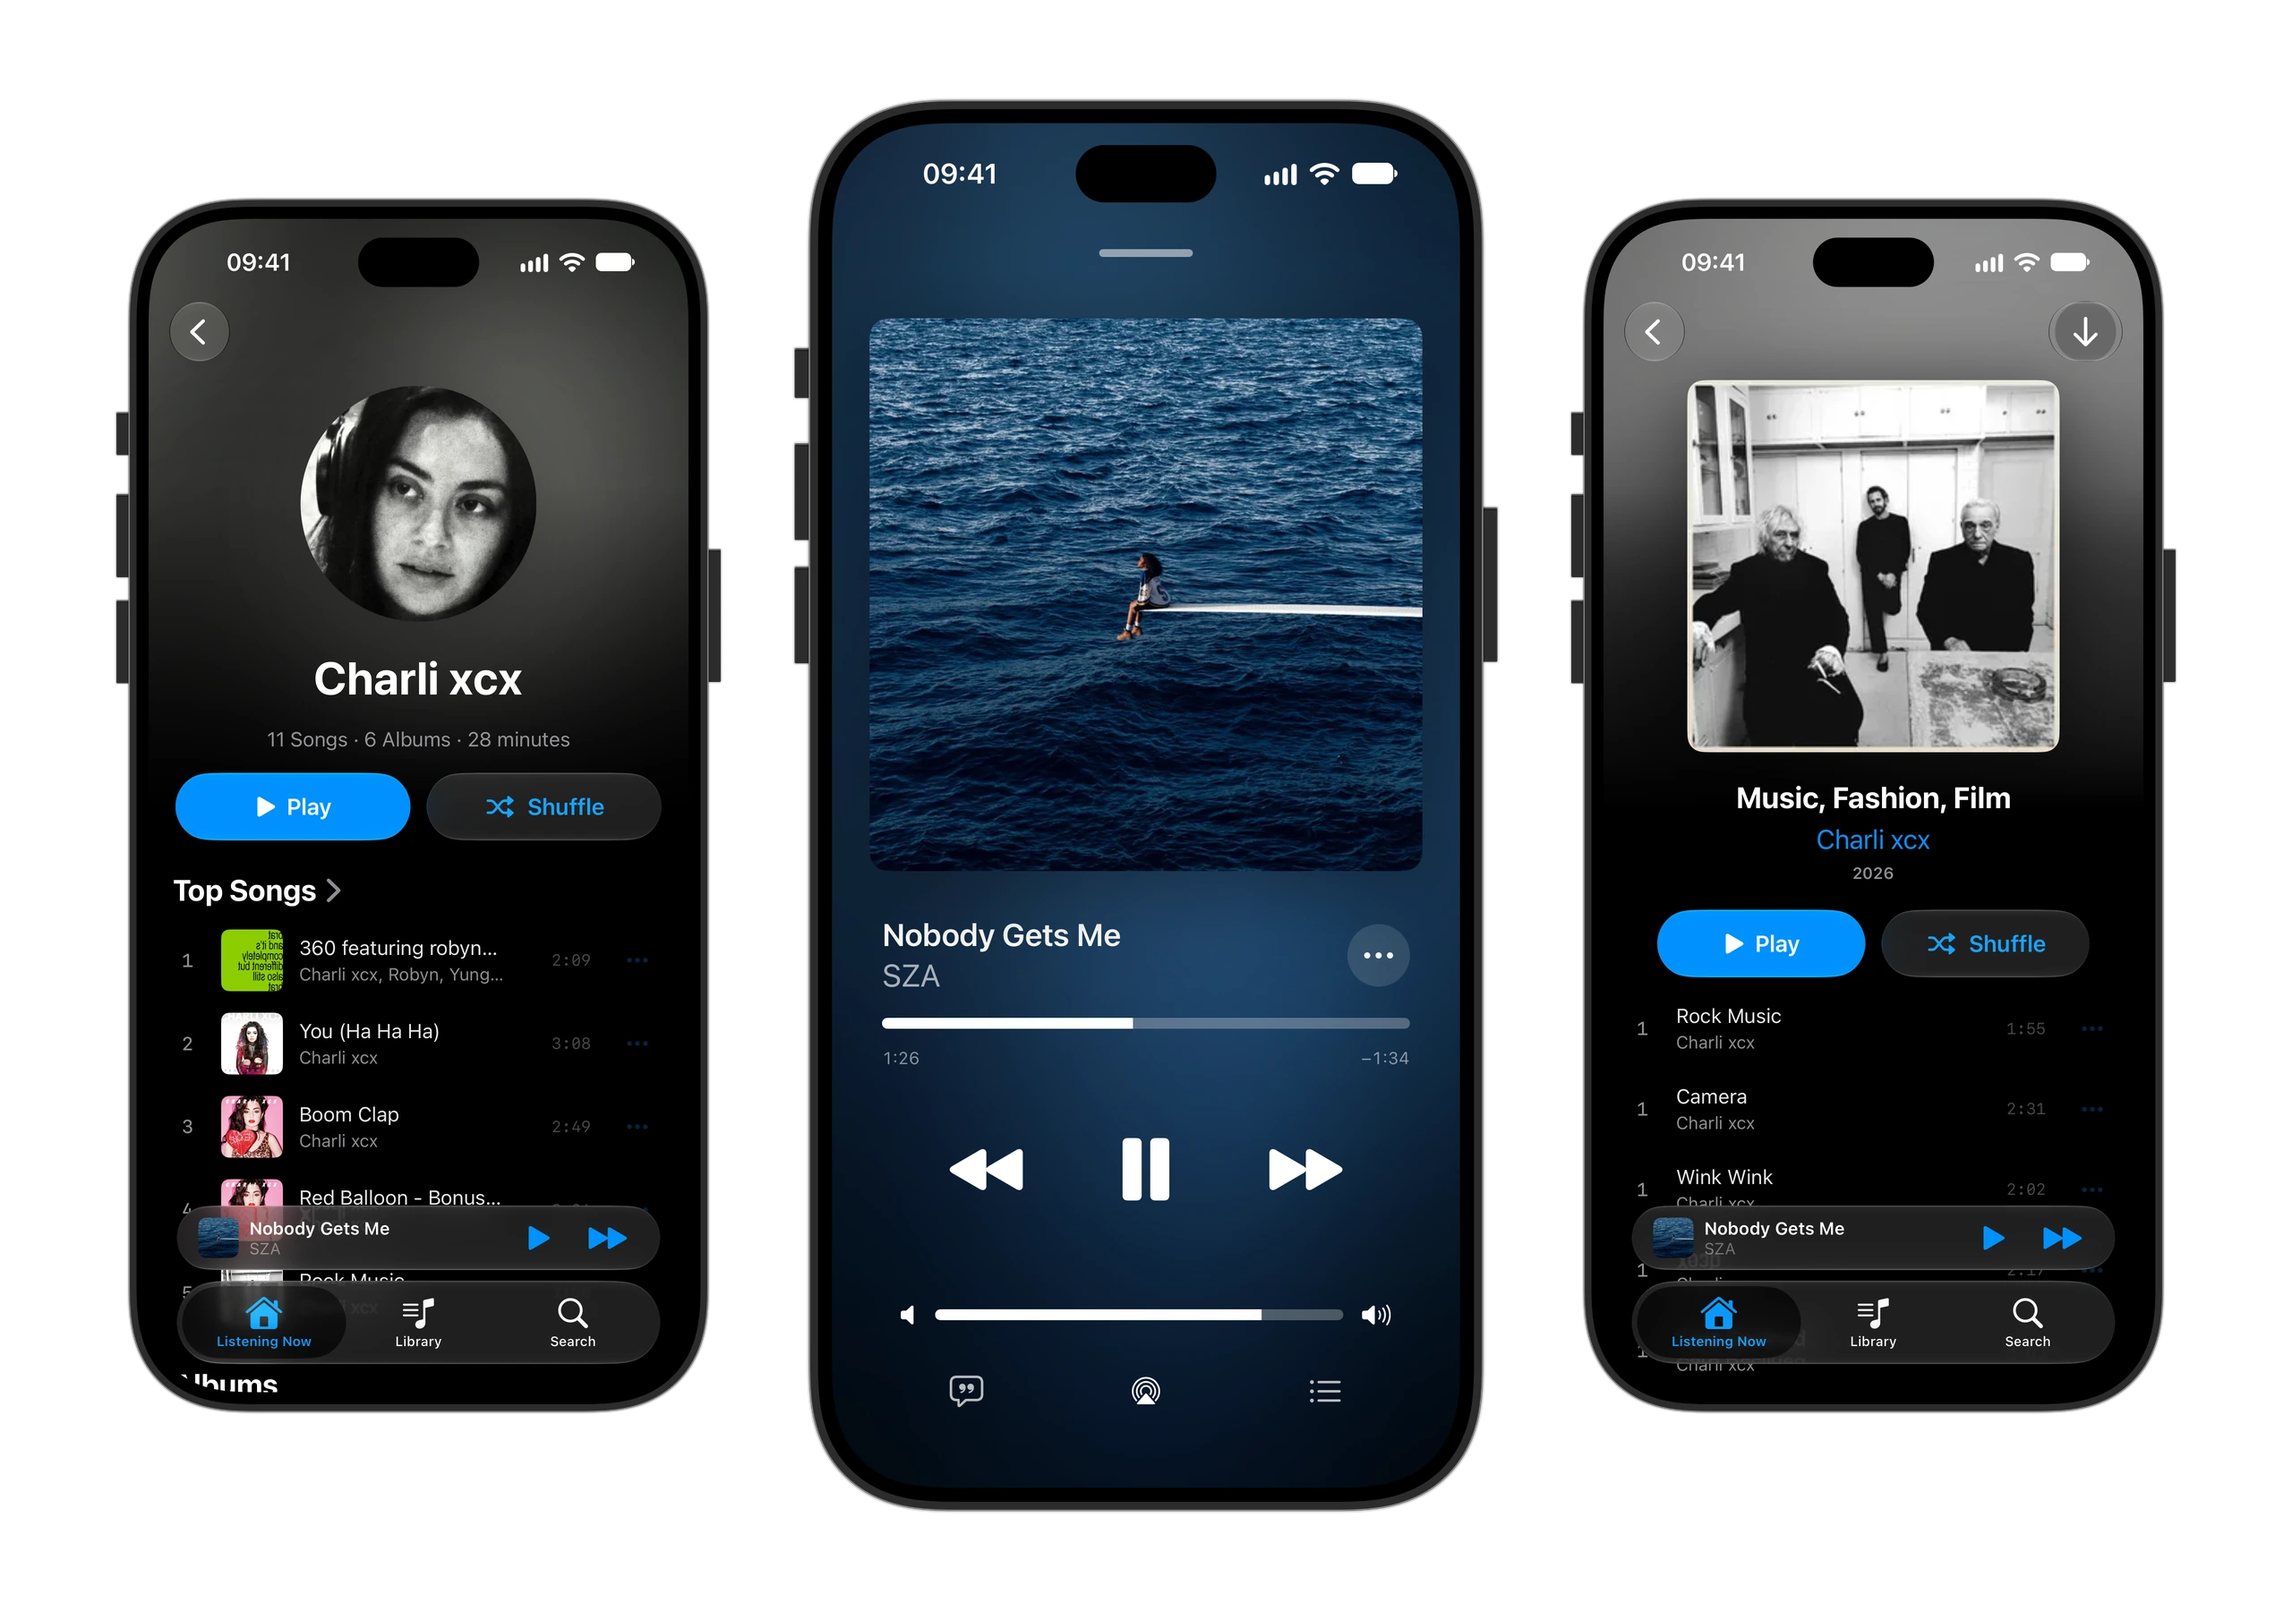
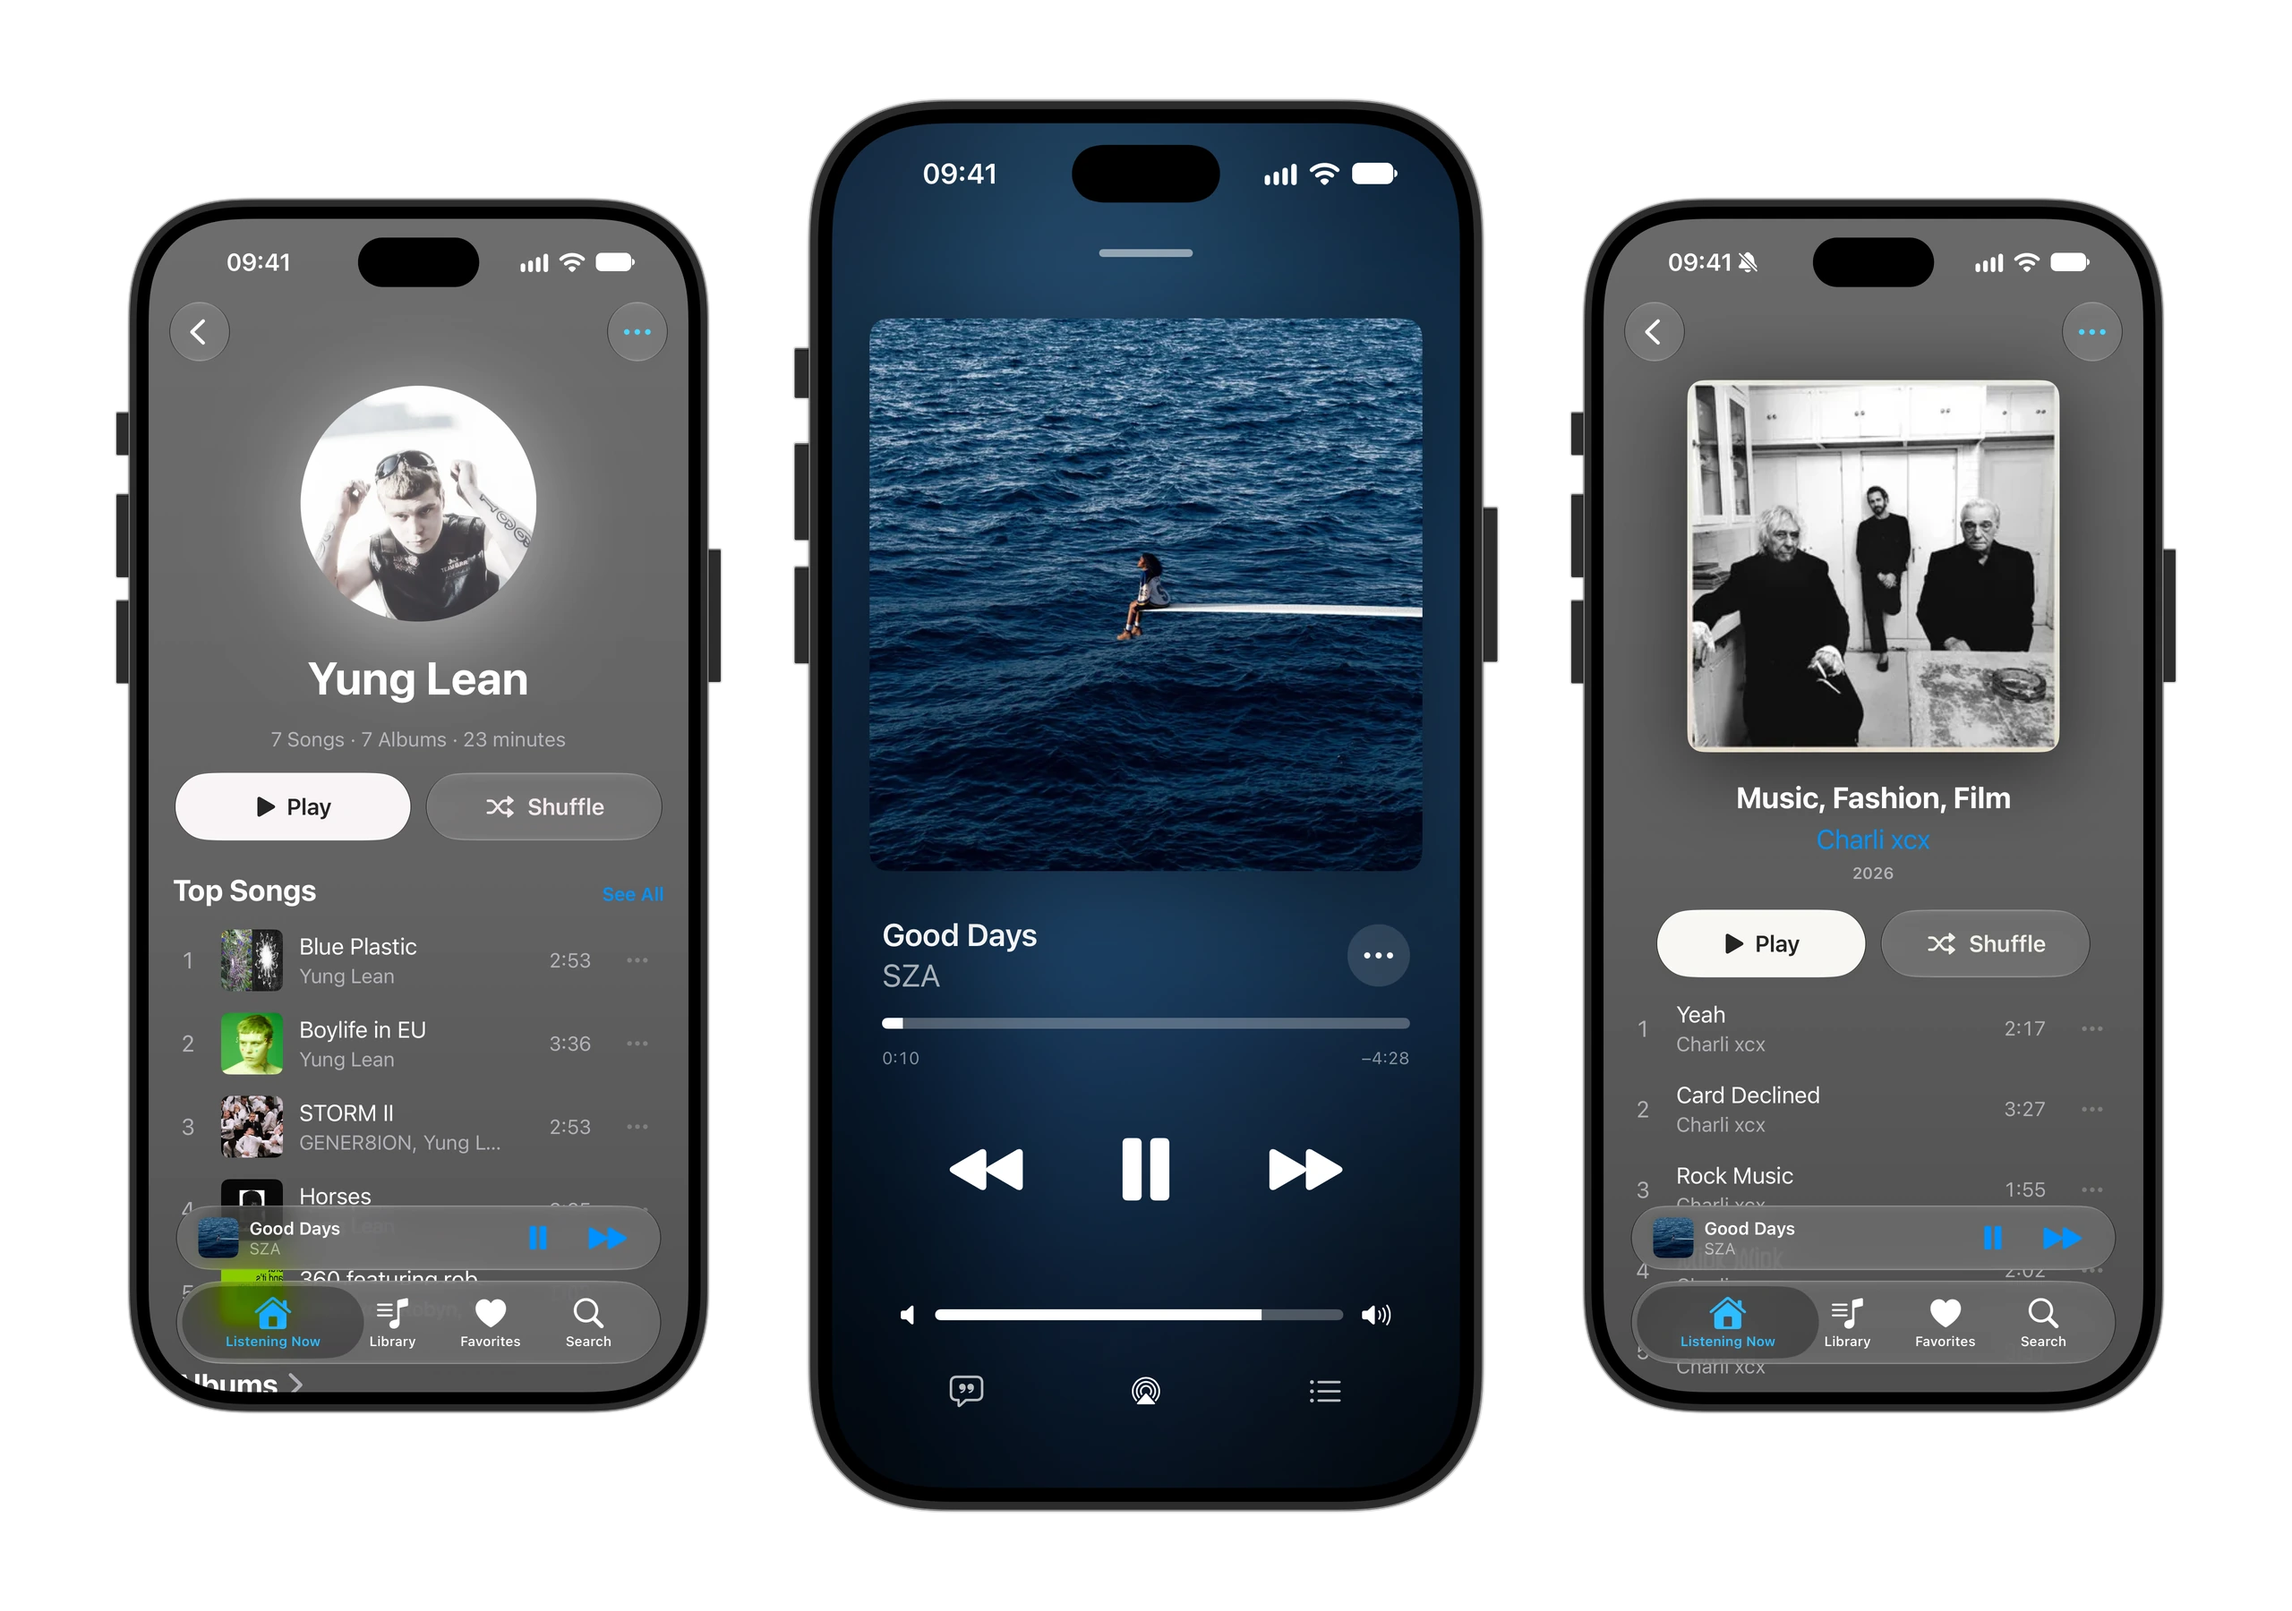
Album colors, Tailscale http fix and track numbers
- Album, artist, playlist and mix pages take on the color of the cover, using the server's album color when it has one. The Play button and links use a light version of it.
- Fixed http not working with Tailscale names (.ts.net) and other domains: NSAllowsLocalNetworking made iOS ignore NSAllowsArbitraryLoads.
- Albums without track number tags are numbered by position instead of showing 1 for every track.
- New README image.

diff --git a/SwingMusic/Views/Components/AdaptiveDetailBackground.swift b/SwingMusic/Views/Components/AdaptiveDetailBackground.swift
@@ -57,25 +57,162 @@ struct AdaptiveDetailBackground: View {
     }
 }
 
-// The detail screens' blurred artwork background, scrolling with the header so the track list
-// below it sits on the plain background. Pulling down past the top leaves it anchored in place.
+// The colors a detail screen takes from its artwork, like Apple Music's album pages: a deep version of
+// the cover's main color for the whole page and a pale one for the Play button.
+struct ArtworkPalette: Equatable {
+    let background: Color
+    let accent: Color
+
+    private static var cache: [String: ArtworkPalette] = [:]
+
+    // The server's color (as the web client uses it) when it has some color in it, otherwise the
+    // most prominent hue of the cover.
+    @MainActor
+    static func make(image: UIImage?, serverColor: String?) -> ArtworkPalette? {
+        let key = "\(serverColor ?? "")|\(image.map { "\(ObjectIdentifier($0).hashValue)" } ?? "")"
+        if let hit = cache[key] { return hit }
+        var hsb: (h: CGFloat, s: CGFloat, b: CGFloat)?
+        if let server = serverColor.flatMap(parse), server.s >= 0.18, server.b >= 0.15 {
+            hsb = server
+        } else if let image {
+            hsb = dominantHue(of: image)
+        }
+        guard let hsb else { return nil }
+        let palette = from(hsb)
+        cache[key] = palette
+        return palette
+    }
+
+    private static func from(_ c: (h: CGFloat, s: CGFloat, b: CGFloat)) -> ArtworkPalette {
+        let colorful = c.s >= 0.12
+        // Keep the color's own character: vivid covers stay vivid, darker ones stay darker.
+        let sat = colorful ? 0.38 + min(c.s, 1) * 0.42 : c.s * 0.5
+        // Yellows and oranges turn muddy when dark, so they get more light.
+        let warmth = colorful && c.h > 0.07 && c.h < 0.2 ? 0.1 : 0
+        let bright = 0.22 + min(max(c.b, 0), 1) * 0.22 + warmth
+        return ArtworkPalette(
+            background: Color(hue: c.h, saturation: sat, brightness: bright),
+            accent: Color(hue: c.h, saturation: colorful ? min(0.28 + c.s * 0.2, 0.45) : 0.04, brightness: 0.95)
+        )
+    }
+
+    // "rgb(65, 171, 66)" or "#41ab42".
+    private static func parse(_ string: String) -> (h: CGFloat, s: CGFloat, b: CGFloat)? {
+        var r: CGFloat = 0, g: CGFloat = 0, b: CGFloat = 0
+        let nums = string.split(whereSeparator: { !"0123456789.".contains($0) }).compactMap { Double($0) }
+        if string.lowercased().hasPrefix("rgb"), nums.count >= 3 {
+            r = nums[0] / 255; g = nums[1] / 255; b = nums[2] / 255
+        } else {
+            let hex = string.trimmingCharacters(in: CharacterSet(charactersIn: "# "))
+            guard hex.count == 6, let v = UInt32(hex, radix: 16) else { return nil }
+            r = CGFloat((v >> 16) & 0xFF) / 255; g = CGFloat((v >> 8) & 0xFF) / 255; b = CGFloat(v & 0xFF) / 255
+        }
+        return hsb(r, g, b)
+    }
+
+    private static func hsb(_ r: CGFloat, _ g: CGFloat, _ b: CGFloat) -> (h: CGFloat, s: CGFloat, b: CGFloat) {
+        var h: CGFloat = 0, s: CGFloat = 0, v: CGFloat = 0, a: CGFloat = 0
+        UIColor(red: r, green: g, blue: b, alpha: 1).getHue(&h, saturation: &s, brightness: &v, alpha: &a)
+        return (h, s, v)
+    }
+
+    // The hue that covers the most of the cover, weighted by how colorful each pixel is, then the
+    // average color of just those pixels. Averaging the whole cover instead turns most into brown.
+    private static func dominantHue(of image: UIImage) -> (h: CGFloat, s: CGFloat, b: CGFloat)? {
+        guard let cg = image.cgImage else { return nil }
+        let side = 40
+        var px = [UInt8](repeating: 0, count: side * side * 4)
+        guard let ctx = CGContext(data: &px, width: side, height: side, bitsPerComponent: 8, bytesPerRow: side * 4,
+                                  space: CGColorSpace(name: CGColorSpace.sRGB)!,
+                                  bitmapInfo: CGImageAlphaInfo.premultipliedLast.rawValue) else { return nil }
+        ctx.draw(cg, in: CGRect(x: 0, y: 0, width: side, height: side))
+
+        let buckets = 18
+        var score = [Double](repeating: 0, count: buckets)
+        var sums = [(r: Double, g: Double, b: Double, w: Double)](repeating: (0, 0, 0, 0), count: buckets)
+        var gray = (r: 0.0, g: 0.0, b: 0.0, w: 0.0)
+        for i in stride(from: 0, to: px.count, by: 4) {
+            let r = CGFloat(px[i]) / 255, g = CGFloat(px[i + 1]) / 255, b = CGFloat(px[i + 2]) / 255
+            let c = hsb(r, g, b)
+            guard c.b > 0.12 else { continue }
+            if c.s < 0.18 {
+                gray.r += r; gray.g += g; gray.b += b; gray.w += 1
+                continue
+            }
+            let k = min(Int(c.h * CGFloat(buckets)), buckets - 1)
+            let w = Double(c.s * (0.4 + c.b))
+            score[k] += w
+            sums[k].r += Double(r) * w; sums[k].g += Double(g) * w; sums[k].b += Double(b) * w; sums[k].w += w
+        }
+        // Neighboring hues belong together (a red can straddle two buckets).
+        var best = -1, bestScore = 0.0
+        for k in 0..<buckets {
+            let total = score[k] + 0.5 * (score[(k + buckets - 1) % buckets] + score[(k + 1) % buckets])
+            if total > bestScore { bestScore = total; best = k }
+        }
+        let pixels = Double(side * side)
+        // A hue must cover a fair part of the cover; a bit of skin on a black-and-white photo stays gray.
+        if best >= 0, bestScore > pixels * 0.08, sums[best].w > 0 {
+            let w = sums[best].w
+            return hsb(CGFloat(sums[best].r / w), CGFloat(sums[best].g / w), CGFloat(sums[best].b / w))
+        }
+        guard gray.w > 0 else { return (0, 0, 0.3) }
+        return hsb(CGFloat(gray.r / gray.w), CGFloat(gray.g / gray.w), CGFloat(gray.b / gray.w))
+    }
+}
+
+private struct DetailTintKey: EnvironmentKey { static let defaultValue: Color? = nil }
+
+extension EnvironmentValues {
+    // The pale artwork color for a detail screen's Play button; nil uses the app's accent.
+    var detailTint: Color? {
+        get { self[DetailTintKey.self] }
+        set { self[DetailTintKey.self] = newValue }
+    }
+}
+
+// The detail screens' background: the whole page in the artwork's color once the cover has loaded,
+// with the blurred cover fading out behind the header, as on Apple Music's album pages.
 private struct DetailBackground: ViewModifier {
     let image: UIImage?
+    var serverColor: String?
     @State private var scrolled: CGFloat = 0
+    @State private var palette: ArtworkPalette?
 
     func body(content: Content) -> some View {
         content
+            .environment(\.detailTint, palette?.accent)
+            .tint(palette?.accent)
+            .environment(\.colorScheme, palette == nil ? colorSchemeFallback : .dark)
             .onScrollGeometryChange(for: CGFloat.self) { geo in
                 max(0, geo.contentOffset.y + geo.contentInsets.top)
             } action: { _, value in
                 scrolled = value
             }
-            .background { AdaptiveDetailBackground(image: image, scrollOffset: scrolled) }
+            .background {
+                if let palette {
+                    ZStack(alignment: .top) {
+                        palette.background
+                        LinearGradient(colors: [.white.opacity(0.06), .clear, .black.opacity(0.18)],
+                                       startPoint: .top, endPoint: .bottom)
+                    }
+                    .ignoresSafeArea()
+                    .transition(.opacity)
+                } else {
+                    AdaptiveDetailBackground(image: image, scrollOffset: scrolled)
+                }
+            }
+            .animation(.easeInOut(duration: 0.5), value: palette)
+            .task(id: "\(serverColor ?? "")|\(image.map { "\(ObjectIdentifier($0).hashValue)" } ?? "")") {
+                palette = ArtworkPalette.make(image: image, serverColor: serverColor)
+            }
     }
+
+    @Environment(\.colorScheme) private var colorSchemeFallback
 }
 
 extension View {
-    func detailBackground(_ image: UIImage?) -> some View {
-        modifier(DetailBackground(image: image))
+    func detailBackground(_ image: UIImage?, color: String? = nil) -> some View {
+        modifier(DetailBackground(image: image, serverColor: color))
     }
 }

diff --git a/SwingMusic/Views/Detail/AlbumDetailView.swift b/SwingMusic/Views/Detail/AlbumDetailView.swift
@@ -34,7 +34,7 @@ struct AlbumDetailView: View {
             }
         }
         .squeezeMiniPlayer(state)
-        .detailBackground(bgImage)
+        .detailBackground(bgImage, color: detail?.info.color)
         .detailScrollTitle(detail?.info.title ?? "", after: 330)
         .toolbar {
             if let d = detail {
@@ -118,6 +118,22 @@ struct AlbumDetailView: View {
         }
     }
 
+    // Track numbers as shown. The album endpoint fills missing tags with 1, so when numbers repeat
+    // within a disc they are meaningless and the tracks are numbered by position instead.
+    static func displayNumbers(_ ordered: [Track]) -> [Int] {
+        var seen = Set<String>()
+        let tagged = ordered.allSatisfy { t in
+            guard let n = t.trackno else { return false }
+            return seen.insert("\(t.disc ?? 1)-\(n)").inserted
+        }
+        var position: [Int: Int] = [:]
+        return ordered.map { t in
+            let disc = t.disc ?? 1
+            position[disc, default: 0] += 1
+            return tagged ? (t.trackno ?? position[disc]!) : position[disc]!
+        }
+    }
+
     private func sortedTracks(_ tracks: [Track]) -> [Track] {
         tracks.sorted { a, b in
             let da = a.disc ?? 1, db = b.disc ?? 1
@@ -128,6 +144,7 @@ struct AlbumDetailView: View {
 
     private func trackList(_ d: AlbumDetail) -> some View {
         let ordered = sortedTracks(d.tracks)
+        let numbers = Self.displayNumbers(ordered)
         let discs = Set(ordered.map { $0.disc ?? 1 })
         let multiDisc = discs.count > 1
         return VStack(spacing: 0) {
@@ -147,7 +164,7 @@ struct AlbumDetailView: View {
                     .padding(.top, i == 0 ? 8 : 24)
                     .padding(.bottom, 8)
                 }
-                TrackRow(track: t, num: t.trackno ?? (i + 1), active: state.player.current == t, showArt: false) {
+                TrackRow(track: t, num: numbers[i], active: state.player.current == t, showArt: false) {
                     state.player.play(t, from: ordered, source: .album(hash))
                 }
             }

diff --git a/SwingMusic/Views/Detail/DetailNative.swift b/SwingMusic/Views/Detail/DetailNative.swift
@@ -3,6 +3,7 @@ import SwiftUI
 struct DetailPlayButtons: View {
     let play: () -> Void
     let shuffle: () -> Void
+    @Environment(\.detailTint) private var tint
 
     var body: some View {
         HStack(spacing: 12) {
@@ -12,8 +13,10 @@ struct DetailPlayButtons: View {
                     .lineLimit(1)
                     .minimumScaleFactor(0.75)
                     .frame(maxWidth: 160)
+                    .foregroundStyle(tint == nil ? Color.white : Color.black.opacity(0.85))
             }
             .buttonStyle(.glassProminent)
+            .tint(tint)
 
             Button(action: shuffle) {
                 Label("Shuffle", systemImage: "shuffle")

diff --git a/SwingMusic/Views/Detail/ArtistDetailView.swift b/SwingMusic/Views/Detail/ArtistDetailView.swift
@@ -44,7 +44,7 @@ struct ArtistDetailView: View {
             }
         }
         .squeezeMiniPlayer(state)
-        .detailBackground(bgImage)
+        .detailBackground(bgImage, color: detail?.artist.color)
         .detailScrollTitle(detail?.artist.name ?? "", after: 380)
         .toolbar {
             if let d = detail {
